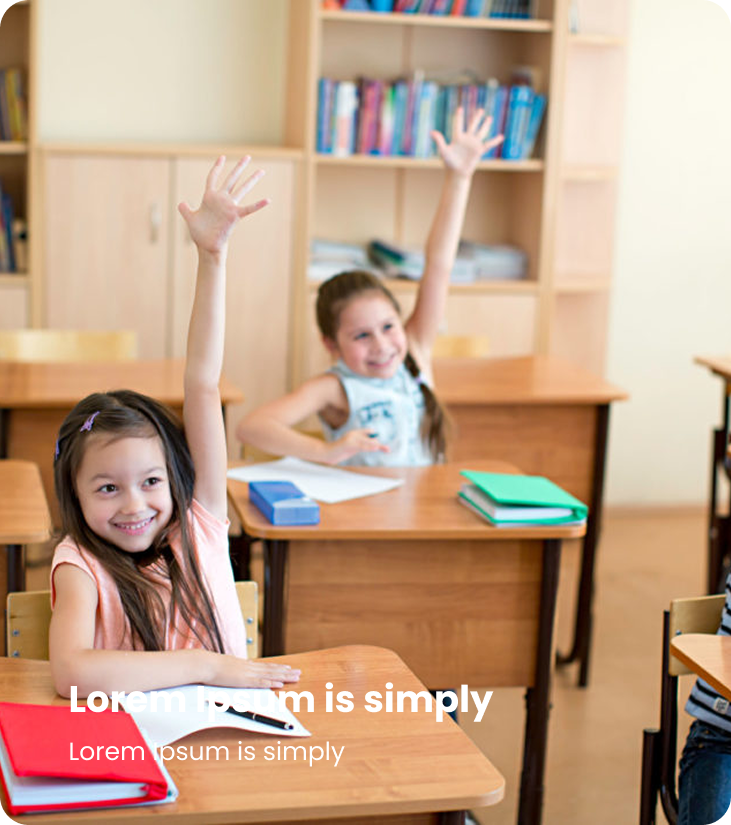
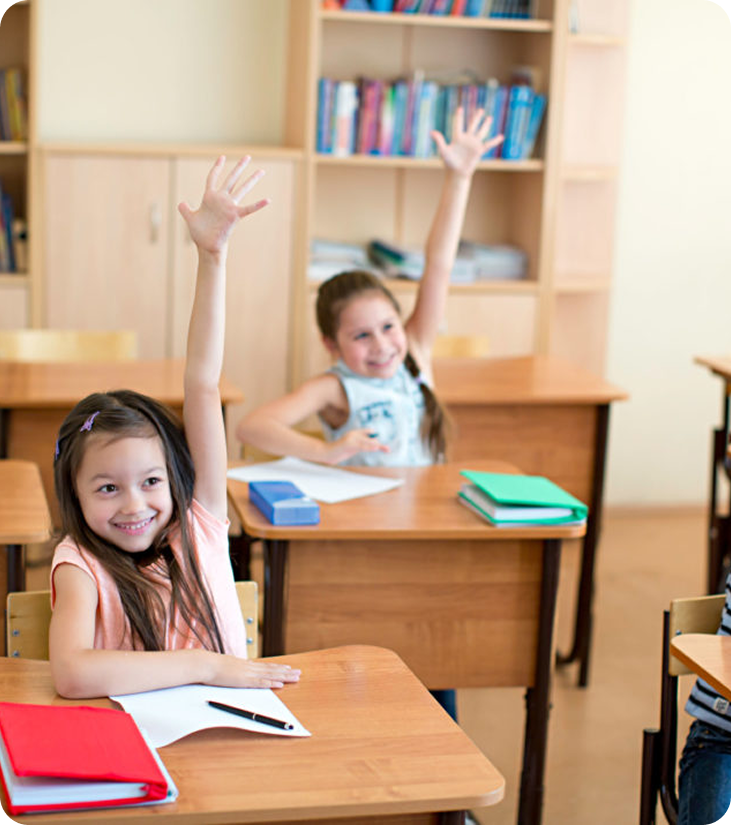
authform changes added

diff --git a/src/Components/AuthForm.tsx b/src/Components/AuthForm.tsx
@@ -24,7 +24,7 @@ const AuthForm = ({ mode }: AuthFormProps) => {
   const router = useRouter()
   const isLogin = mode === 'login'
 
-  const image = isLogin ? '/images/login.png' : '/images/Register.png'
+  const image = isLogin ? '/images/Login.png' : '/images/Register.png'
 
   const {
     register,
@@ -60,7 +60,7 @@ const AuthForm = ({ mode }: AuthFormProps) => {
       <div className="mx-auto grid min-h-screen w-full max-w-[1440px] lg:grid-cols-2 lg:px-6 xl:px-10">
         {/* Left side image, hidden on mobile */}
         <div className="hidden p-6 lg:flex lg:items-center lg:justify-center lg:p-10">
-          <div className="relative h-[85vh] max-h-[760px] w-full overflow-hidden rounded-[32px] shadow-2xl">
+          <div className="relative h-[85vh] max-h-[760px] w-full overflow-hidden rounded-[32px] shadow-6xl">
             <Image
               src={image}
               alt="Students in a classroom"
@@ -70,9 +70,9 @@ const AuthForm = ({ mode }: AuthFormProps) => {
             />
             <div className="absolute inset-0 bg-gradient-to-t from-black/50 via-black/10 to-transparent" />
             <div className="absolute bottom-10 left-8 right-8 text-white">
-              <p className="text-3xl font-bold">Lorem Ipsum is simply</p>
-              <p className="text-2xl font-normal text-white/80">Lorem Ipsum is simply</p>
-            </div>
+              {/* <p className="text-3xl font-bold">Lorem Ipsum is simply</p>
+              <p className="text-2xl font-normal text-white/80">Lorem Ipsum is simply</p> */}
+            </div>  
           </div>
         </div>
 
